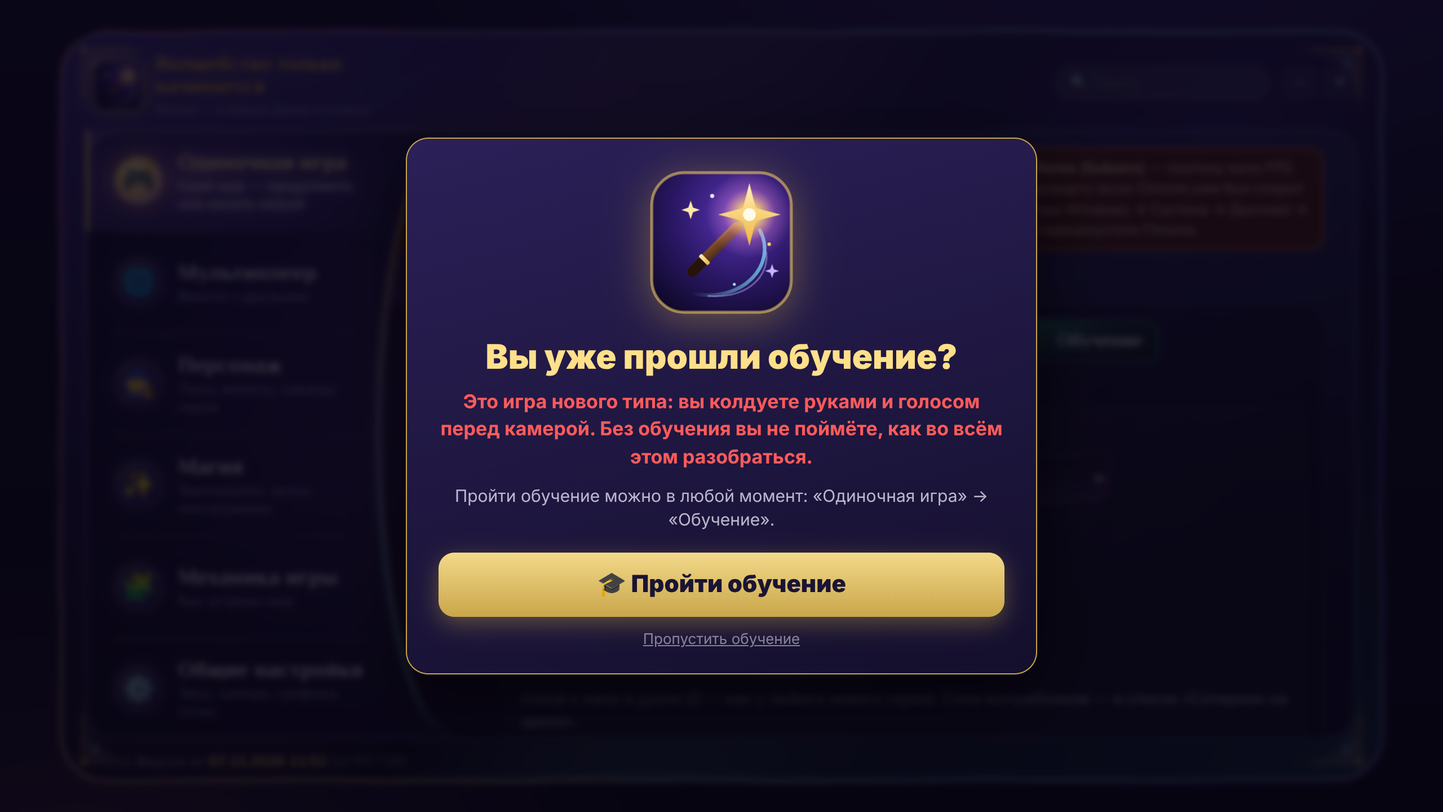
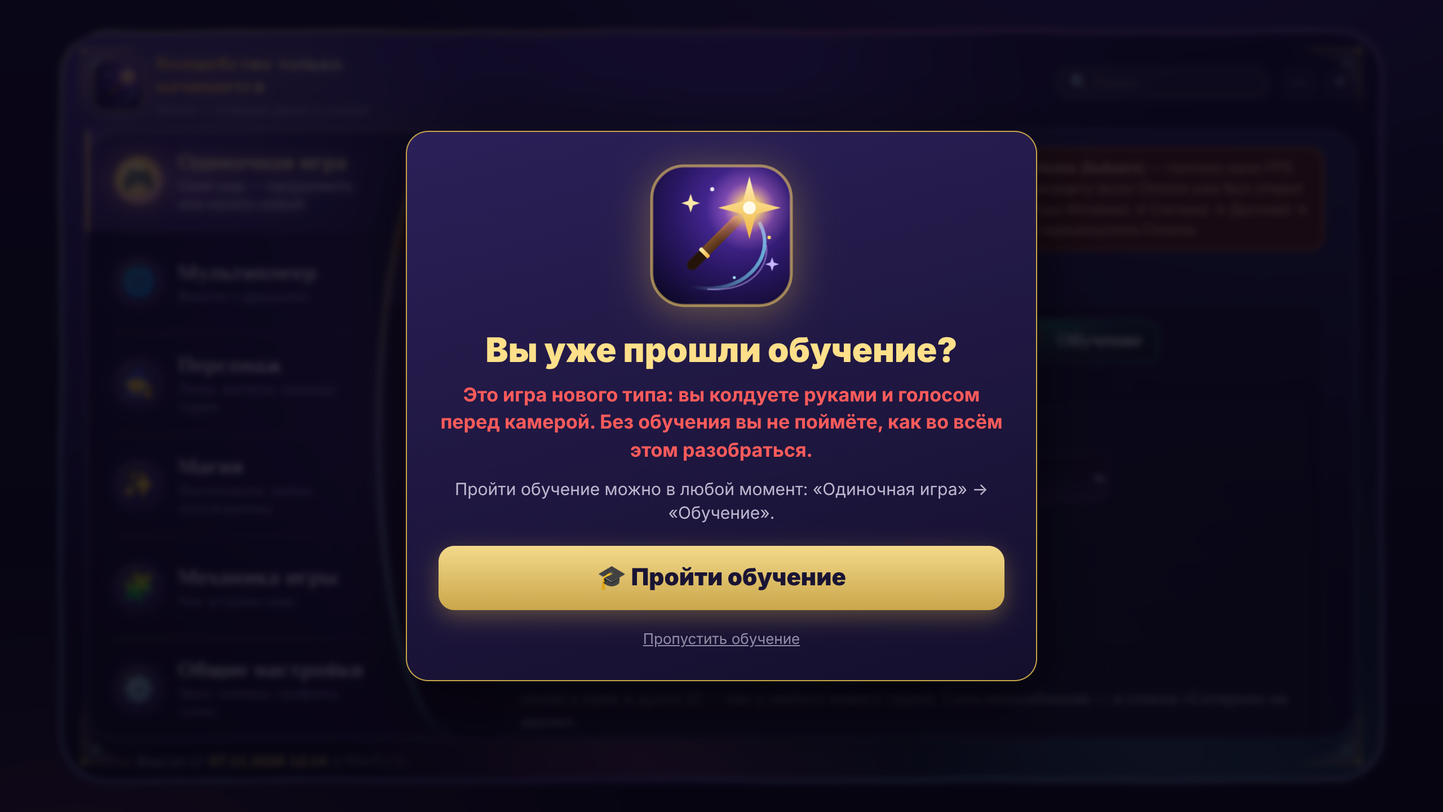
Обучение: фейспалм Дьяволоса и «ва-ва-ваааа» при пропуске, торговец и волшебник оживают, карта скрыта
- «Пропустить обучение»: дьявол закрывает морду ладонью (новый поступок
  facepalm — и в игре на слабое заклинание) и разочарованный звук; окно
  до полноэкранного режима — первый клик больше не теряется.
- На карте обучения нет замков — жители прилавка и волшебник не
  просыпались; теперь просыпаются.
- Миникарта скрыта, кроме шага про интерфейс; стрелка над полосой маны.
- Голос не загрузился — фразы дальше без ожидания.
- Тесты в браузере сами берут свободный порт.

Claude-Session: https://claude.ai/code/session_01GXUr6fdMTNaofVnpKrdDAX

Changed region(s): [[0.2812, 0.1562, 0.7188, 0.7812], [0.2812, 0.8125, 0.7188, 0.8438]]

diff --git a/src/game/Tutorial.js b/src/game/Tutorial.js
@@ -206,6 +206,7 @@ export class Tutorial {
                 { ...say('Главное в игре — ячейки маны. Это вторая цифра: сколько маны у вас всего. Чем больше ячеек, тем сильнее заклинания вам доступны.'), ...wait(10), show: 'mana-max' },
                 { ...say('За каждое новое заклинание, которое вы произнесёте впервые, дают ячейки маны. Поэтому пробуйте все заклинания, которые знаете.'), ...wait(9), show: 'mana-max' },
                 { ...say('Красная полоса — здоровье. Еда возвращает его.'), ...wait(5), show: 'hp-container' },
+                { ...say('Слева внизу — карта местности. Она показывает, где вы и что вокруг. Здесь, в обучении, мы её спрячем, чтобы она не мешала.'), ...wait(6), show: 'minimap-container', map: true },
                 { ...say('Справа вверху — ваши монеты. Их находят в пещерах и сундуках. На них покупают вещи и свитки у торговцев.'), ...wait(8), show: 'coin-counter' },
                 ask('Ещё одно полезное заклинание. Перед вами свиток. Направьте на него палочку и скажите: «Раскрой свои секреты». Вы узнаете, что это за вещь.', () => T.events.includes('Reveal'), { allow: ['Reveal'], setup: () => { if (!T._held('wand')) T._wandToPocket(); T.ctx.scroll = T._give({ kind: 'scroll', uid: newUid(), stat: 'spell', spell: 'Fireworks' }, T._frontOfView(7))?.item?.uid; }, hint: 'Палочка смотрит на свиток. Скажите: «Раскрой свои секреты».' }),
                 { ...say('Так можно узнать, что за вещь перед вами, прежде чем её взять. Остальное о мире можно прочитать в главном меню, во вкладке «Механика игры».'), ...wait(9) },
@@ -371,7 +372,8 @@ export class Tutorial {
         const G = TUTORIAL.G + 0.5, at = { x: -14, z: -10 }; // (beside the hill, ~26 m before the hero)
         const spot = { x: at.x, y: G, z: at.z, yaw: Math.PI };
         return {
-            id: TUT.WIZ_SITE, kind: 'guest', name: 'Обучение', x: at.x, z: at.z, F: G, zone: 12, gx: 0, gz: 0,
+            id: TUT.WIZ_SITE, kind: 'wander', name: 'Обучение', // (a wizards' place that keeps no day and night: the wizard's own fighting mind runs — WizardLife.crowd)
+            x: at.x, z: at.z, F: G, zone: 12, gx: 0, gz: 0,
             knights: 0, king: '', population: 1, color: 0x3a3a7a, spot,
             people: [{ idx: 1, role: 'student', female: false, name: 'Ученик Тим', home: -1, stall: -1, seed: 20261107, rank: 'novice', brave: 1, mana: 60 }],
             houses: [], stalls: [], fields: [], posts: [], beds: [], chests: [], pens: [], graves: [], graveyards: [], rooms: [],
@@ -466,7 +468,9 @@ export class Tutorial {
         this.t = 0; for (const k of ['seen', 'handsT', 'min', 'max', 'body0', 'toldBody', 'runT', 'lightT', 'toldDark']) delete this.ctx[k]; this.heard.length = 0; this.events.length = 0; this.hinted = false; // (the stage's things — the apple, the wand — stay known through its steps)
         this.allowed = new Set(st.allow || []);
         this.frozen = !st.unfreeze;
-        this.point = st.point || null; // (the red arrow in the camera's window: 'wand' / 'pocket' — PocketHintsDraw.pointArrow)
+        this.point = st.point || null;
+        // (the red arrow in the camera's window: 'wand' / 'pocket' — PocketHintsDraw.pointArrow)
+        if (typeof document !== 'undefined') document.body.classList.toggle('tut-map', !!st.map); // (the map is hidden in the tutorial — but for the step that shows it)
         try { st.setup?.(); } catch (e) { console.warn('tutorial setup', e); }
         if (st.say) this._narrate(st.say);
         this._show(st.show || null);
@@ -542,10 +546,13 @@ export class Tutorial {
         const piece = this._q[0], now = this._clockNow(), sp = this._speech();
         const silent = () => { this._q.shift(); this._talking = true; this._subText(piece); this._talkEnd = now + 0.6 + piece.length * 0.065; };
         if (!sp) { silent(); return; }
-        if (sp.neuralUsable && !sp.neural?.ready) { // (the voices still loading: the piece waits — at most VOICE_WAIT, then it is only written)
+        if (sp.neuralUsable && !sp.neural?.ready) { // (the voices still loading: the piece waits — at most VOICE_WAIT once, then the words are only written until they come)
             sp.preload?.();
-            this._waitFrom ??= now;
-            if (now - this._waitFrom < TUT.VOICE_WAIT) { this._waiting = true; return; }
+            if (!this._voiceGaveUp) {
+                this._waitFrom ??= now;
+                if (now - this._waitFrom < TUT.VOICE_WAIT) { this._waiting = true; return; }
+                this._voiceGaveUp = true; // (never again a wait: a voice that did not come in time is not waited for at every line)
+            }
             silent(); return;
         }
         this._waiting = false; this._waitFrom = null;
@@ -619,8 +626,10 @@ export class Tutorial {
 #tut-finish h2{margin:0 0 12px;color:#f3d98a}#tut-finish button{margin-top:8px;padding:10px 20px;border-radius:10px;border:0;background:#c9a64a;color:#1a1434;font-weight:700;font-size:15px;cursor:pointer}
 @media (max-width:900px){#tut-panel{top:70px;width:46vw;font-size:13px}#tut-panel li::before{flex-basis:22px;height:22px;font-size:12px}}
 @media (max-width:640px){#tut-sub{font-size:16px}}
+body.tutorial-on #minimap-container{display:none!important}
+body.tutorial-on.tut-map #minimap-container{display:block!important}
 body.tutorial-on #voice-debug.hint{top:calc(max(118px,14vh) + 120px)!important}
-.tut-arrow{position:fixed;z-index:63;width:34px;height:46px;pointer-events:none;filter:drop-shadow(0 0 6px rgba(255,40,40,.85)) drop-shadow(0 2px 2px #000);animation:tutBob .7s ease-in-out infinite alternate}
+.tut-arrow{position:fixed;z-index:10040;width:34px;height:46px;pointer-events:none;filter:drop-shadow(0 0 6px rgba(255,40,40,.85)) drop-shadow(0 2px 2px #000);animation:tutBob .7s ease-in-out infinite alternate}
 .tut-arrow svg{width:100%;height:100%}.tut-arrow.up{transform:rotate(180deg)}
 @keyframes tutBob{from{translate:0 -6px}to{translate:0 4px}}`;
             document.head.appendChild(s);
@@ -697,7 +706,7 @@ body.tutorial-on #voice-debug.hint{top:calc(max(118px,14vh) + 120px)!important}
         if (typeof document === 'undefined') return;
         for (const id of ['tut-panel', 'tut-sub', 'tut-bosses', 'tut-finish']) document.getElementById(id)?.remove();
         document.querySelectorAll('.tut-arrow').forEach((e) => e.remove());
-        document.body.classList.remove('tutorial-on');
+        document.body.classList.remove('tutorial-on', 'tut-map');
         document.querySelectorAll('.tut-glow').forEach((e) => e.classList.remove('tut-glow'));
         this._clearZombies?.();
     }

diff --git a/src/main.js b/src/main.js
@@ -1250,6 +1250,40 @@ function startTutorial(cont = true) {
     startGame({ ...readConfig(), mode: 'freeworld', tutorial: true, tutorialFrom: from, map: null, worldName: 'Обучение' }); // (a small bounded map, never saved — Tutorial.js)
 }
 
+/** «Ва-ва-ва-ваааа»: a sad trombone — four falling notes, the last one long and wobbling (synthesised: a buzzing reed through a closing «wah»). */
+function sadTrombone() {
+    try {
+        const AC = window.AudioContext || window.webkitAudioContext;
+        const ctx = sadTrombone.ctx || (sadTrombone.ctx = new AC());
+        ctx.resume?.();
+        const out = ctx.createGain(); out.gain.value = 0.32; out.connect(ctx.destination);
+        const notes = [[293.7, 0.42], [277.2, 0.42], [261.6, 0.42], [246.9, 1.5]]; // (D4 → C#4 → C4 → B3, the last held)
+        let t = ctx.currentTime + 0.05;
+        notes.forEach(([f, d], i) => {
+            const last = i === notes.length - 1;
+            const o = ctx.createOscillator(), o2 = ctx.createOscillator(), lp = ctx.createBiquadFilter(), g = ctx.createGain();
+            o.type = 'sawtooth'; o2.type = 'square'; o.frequency.value = f; o2.frequency.value = f * 0.5;
+            const g2 = ctx.createGain(); g2.gain.value = 0.25; o2.connect(g2); g2.connect(lp);
+            o.connect(lp); lp.connect(g); g.connect(out);
+            lp.type = 'lowpass'; lp.Q.value = 6;
+            // the «wah»: the mute opens and closes on each note
+            lp.frequency.setValueAtTime(350, t); lp.frequency.linearRampToValueAtTime(1500, t + 0.12); lp.frequency.linearRampToValueAtTime(500, t + d * 0.9);
+            g.gain.setValueAtTime(0, t); g.gain.linearRampToValueAtTime(0.9, t + 0.05); g.gain.setValueAtTime(0.9, t + d * 0.7); g.gain.linearRampToValueAtTime(0, t + d);
+            o.frequency.setValueAtTime(f * 1.03, t); o.frequency.linearRampToValueAtTime(f, t + 0.08); // (a little scoop up into it)
+            if (last) { // (the long one wobbles and sags)
+                const lfo = ctx.createOscillator(), lg = ctx.createGain();
+                lfo.frequency.setValueAtTime(5, t); lfo.frequency.linearRampToValueAtTime(7, t + d);
+                lg.gain.setValueAtTime(0, t); lg.gain.linearRampToValueAtTime(f * 0.035, t + 0.4);
+                lfo.connect(lg); lg.connect(o.frequency);
+                o.frequency.linearRampToValueAtTime(f * 0.94, t + d);
+                lfo.start(t); lfo.stop(t + d + 0.05);
+            }
+            o.start(t); o2.start(t); o.stop(t + d + 0.05); o2.stop(t + d + 0.05);
+            t += d + 0.04;
+        });
+    } catch { /* no sound: the devil is enough */ }
+}
+
 /**
  * The first time ever a game is started or a server joined (the author 07.11): a window asks «Вы уже прошли обучение?» —
  * a big «Пройти обучение», a red warning, and a small «Пропустить обучение» under it. Shown ONCE (never again, whatever is chosen).
@@ -1273,7 +1307,10 @@ function tutorialGate() {
 #tut-ask .note{margin:0 0 18px;color:rgba(243,236,255,.75);font-size:15px}
 #tut-ask .go{display:block;width:100%;padding:16px 18px;border:0;border-radius:14px;background:linear-gradient(180deg,#f3d98a,#c9a64a);color:#1a1434;font:900 21px system-ui,sans-serif;cursor:pointer;box-shadow:0 6px 20px rgba(201,166,74,.4)}
 #tut-ask .go:hover{filter:brightness(1.08)}
-#tut-ask .skip{margin-top:12px;background:none;border:0;color:rgba(243,236,255,.5);font-size:13px;text-decoration:underline;cursor:pointer}`;
+#tut-ask img.devil{width:240px;height:240px;border-radius:16px;object-fit:cover;border:1px solid rgba(201,166,74,.5);box-shadow:0 8px 30px rgba(255,60,20,.35);filter:none}
+#tut-ask h2.sad{color:#ff9a7a}
+#tut-ask{transition:opacity .35s}#tut-ask.out{opacity:0}
+#tut-ask .skip{margin-top:8px;padding:10px 18px;background:none;border:0;color:rgba(243,236,255,.55);font-size:13px;text-decoration:underline;cursor:pointer}`;
             document.head.appendChild(st);
         }
         const w = document.createElement('div');
@@ -1286,16 +1323,34 @@ function tutorialGate() {
 <button type="button" class="skip">Пропустить обучение</button></div>`;
         document.body.appendChild(w);
         w.querySelector('.go').onclick = () => { w.remove(); resolve(false); startTutorial(true); };
-        w.querySelector('.skip').onclick = () => { try { localStorage.setItem('zns-tutorial-skipped', '1'); } catch { /* private mode */ } w.remove(); resolve(true); }; // (skipped: TutorialNudge watches the first minutes)
+        // (the devil's facepalm frames, loaded while the window is read: tools/devil-facepalm.mjs → assets/ui/)
+        const frames = Array.from({ length: 8 }, (_, i) => Object.assign(new Image(), { src: `assets/ui/devil-facepalm-${i}.webp` }));
+        let skipping = false;
+        w.querySelector('.skip').onclick = () => {
+            if (skipping) return;
+            skipping = true;
+            try { localStorage.setItem('zns-tutorial-skipped', '1'); } catch { /* private mode */ } // (skipped: TutorialNudge watches the first minutes)
+            // the author 07.11: «звук полного разочарования» and Diabolos doing a facepalm — a joke, then the game goes on
+            const box = w.querySelector('.box');
+            box.innerHTML = '<img class="devil" alt=""><h2 class="sad">Ну что ж…</h2><p class="note">Обучение ждёт вас в «Одиночной игре».</p>';
+            const img = box.querySelector('.devil');
+            let f = 0;
+            img.src = frames[0].src;
+            const tick = setInterval(() => { f = Math.min(frames.length - 1, f + 1); img.src = frames[f].src; if (f === frames.length - 1) clearInterval(tick); }, 110);
+            sadTrombone();
+            setTimeout(() => { clearInterval(tick); w.classList.add('out'); setTimeout(() => { w.remove(); resolve(true); }, 350); }, 3300);
+        };
     });
 }
 
 async function startGame(config, welcome = null) {
+    if (starting) return; // a second click / duplicate invitation while loading
+    // (the first game ever: «Вы уже прошли обучение?» — before the full screen: going full screen under the window moved it, and the
+    // first click on «Пропустить» was lost — the author)
+    if (!config.tutorial && !welcome && !(await tutorialGate())) return;
     // the menu is a window; the game itself is played full screen
     if (!window.__ZNS_NO_FULLSCREEN__) enterGameFullscreen();
     window.__charEditor?.hide(); // (its preview must not keep drawing under the game)
-    if (starting) return; // a second click / duplicate invitation while loading
-    if (!config.tutorial && !welcome && !(await tutorialGate())) return; // (the first game ever: «Вы уже прошли обучение?»)
     starting = true;
     try {
         await startGameInner(config, welcome);

diff --git a/src/game/CastleLife.js b/src/game/CastleLife.js
@@ -300,6 +300,9 @@ export class Graph {
 }
 
 // --------------------------------------------------------------- the system
+/** No places of the land (a map of its own — «Обучение»): CastleLife still runs the game's own ones (`extra`). */
+const NO_SITES = { near: () => [], landAt: () => null, byId: () => null, cellOf: () => null };
+
 export class CastleLife {
     constructor(game) {
         this.game = game;
@@ -348,7 +351,7 @@ export class CastleLife {
     }
 
     get auth() { return this.game.authority; }
-    get index() { const d = this.game.world?.terrain?.data; return d?.sites || d?.castles || null; } // (castles and wizards' towers)
+    get index() { const d = this.game.world?.terrain?.data; return d?.sites || d?.castles || (this.game.config?.tutorial ? NO_SITES : null); } // (castles and wizards' towers; «Обучение» has none — only the game's own places, `extra`: the stall, the wizard)
 
     /** Who is person number `idx` of a site (a castle's villager or a wizard). */
     _rosterRaw(def, idx) { const own = def.people?.find((p) => p.idx === idx); if (own) return own; return def.kind === 'hamlet' ? hamletRoster(def, idx) : isWizSite(def) ? wizardRoster(def, idx) : rosterEntry(def, idx); }
@@ -532,8 +535,8 @@ export class CastleLife {
 
     // ------------------------------------------------------- wake / sleep
     _scan() {
-        const idx = this.index;
-        if (!idx) return;
+        const idx = this.index; // (none on a map of its own — «Обучение»: only the game's own places, `extra`, wake there)
+        if (!idx && !this.extra.size) return;
         const players = this._players();
         this.game.imperius?.eyes?.(players); // («Империус»: the places round a creature with a mind in it wake and stay awake — up to 1800 m from the body)
         const seen = new Set();
@@ -551,7 +554,7 @@ export class CastleLife {
                 seen.add(def.id);
                 wake(this._runtime(def));
             }
-            for (const def of idx.near(pl.p.x, pl.p.z, WAKE)) {
+            for (const def of idx ? idx.near(pl.p.x, pl.p.z, WAKE) : []) {
                 seen.add(def.id);
                 wake(this._runtime(def));
             }

diff --git a/src/game/DiabolosActs.js b/src/game/DiabolosActs.js
@@ -199,10 +199,21 @@ export const ACTS = {
         body: (k) => ({ lean: env(k, 0.3, 0.7), head: { pitch: -0.45 * env(k, 0.3, 0.7) } }),
         snd: [{ t: 0.35, k: 'sniff' }, { t: 0.55, k: 'sniff' }, { t: 0.75, k: 'chuckle' }],
     },
+    facepalm: {
+        ru: 'закрывает морду ладонью: «ну что за жалкое зрелище»', dur: 3.6, when: ['hitWeak'], w: 1,
+        // (автор 07.11: его фейспалм — и в окне «Пропустить обучение»; в игре — на совсем слабое заклинание)
+        face: (k, t) => ({ lid: 0.08 + 0.5 * (1 - env(k, 0.25, 0.8)), brow: 0.6 * env(k), browL: 0.75 * env(k), ear: -0.8 * env(k), nostril: 0.4 + 0.5 * env(k, 0.5, 0.7), snarl: 0.15 }),
+        body: (k, t) => {
+            const up = env(k, 0.28, 0.82);
+            return { head: { pitch: -0.36 * up, yaw: 0.26 * up + 0.08 * Math.sin(t * 2.6) * env(k, 0.4, 0.8), roll: 0.14 * up }, // (the head shakes a little into the palm) inhale: 0.5 * env(k, 0.5, 0.65), lean: 0.15 * up,
+                armR: { rot: { sx: 1.48 * up, ab: -0.29 * up, tw: 0.68 * up, el: 1.6 * up, ha: 0.68 * up } } }; // (the palm on the brow — measured on the model: more and it goes past the head)
+        },
+        snd: [{ t: 0.45, k: 'sigh' }], fx: [{ t: 0.6, k: 'nostrilSmoke' }],
+    },
 };
 /** Порядок для сети (только дописывать в конец). */
 export const ACT_IDS = ['snoreDeep', 'earFlick', 'sleepScratch', 'sleepMumble', 'wakeOneEye', 'yawn', 'stretch', 'sniffAir', 'lookAround', 'pickTeeth', 'scratchHorn',
-    'smokePuff', 'knuckleCrack', 'laugh', 'scoff', 'bask', 'headShake', 'tongueTaunt', 'lickLips', 'beckon', 'chainPull', 'chestBeat', 'triumph', 'surprise', 'sighSit', 'sniffClose'];
+    'smokePuff', 'knuckleCrack', 'laugh', 'scoff', 'bask', 'headShake', 'tongueTaunt', 'lickLips', 'beckon', 'chainPull', 'chestBeat', 'triumph', 'surprise', 'sighSit', 'sniffClose', 'facepalm'];
 
 /** Звуки поступков (DiabolosSounds: эти виды должны быть синтезированы). */
 export const ACT_SOUNDS = [...new Set(Object.values(ACTS).flatMap((a) => (a.snd || []).map((s) => s.k)))];

diff --git a/docs/rules/tutorial.md b/docs/rules/tutorial.md
@@ -43,3 +43,7 @@
 - Первый запуск (автор 07.11): при первой игре или первом входе/создании сервера — окно «Вы уже прошли обучение?» (`main.js tutorialGate`): жирный вопрос, красное предупреждение, «можно пройти в любой момент», большая кнопка «Пройти обучение», маленькая «Пропустить обучение». Показывается ОДИН раз (`zns-tutorial-asked`), в тестах выключено (`__ZNS_NO_TUTORIAL_ASK__`, `navigator.webdriver`). Снимок: `docs/media/tutorial-ask.png`.
 - Напоминание (автор 07.11, `TutorialNudge.js`): только тем, кто нажал «Пропустить обучение». Первые 5 минут игры смотрит, не получается ли (камера почти не видит; ≥ 4 фраз без единого заклинания; 2 мин палочка ни разу в руке; 3 мин почти не сдвинулся) — тогда тихая строка «… Обучение всегда можно пройти»; через 5 минут игры после неё — яркая золотая плашка со своим звуком (колокольчики) и другими словами; потом больше никогда (`zns-tutorial-nudge`, переживает перезапуск). Всё хорошо за 5 минут — не трогаем вовсе. Тест `tutorial-nudge.test.js`.
 - Диктор (автор 07.11: «текст спешит, первая фраза не прозвучала»): своя очередь фраз (`Tutorial._narrate/_pump`): кусок ждёт загрузки голосов (до `VOICE_WAIT` 25 с), текст появляется в момент начала озвучки куска (`onStart`), следующий кусок — после конца предыдущего (`onEnd`); новый шаг сбрасывает недосказанное старого, подсказки добавляются в конец; время шага (паузы, подсказки) идёт только после того, как диктор договорил. Без голоса — текст держится время чтения.
+- «Пропустить обучение» (автор 07.11): Дьяволос делает фейспалм (кадры `assets/ui/devil-facepalm-0…7.webp`, снимает `node tools/devil-facepalm.mjs` по настоящему поступку `facepalm` из `DiabolosActs.js` — он же в игре на слабое заклинание) и звучит «ва-ва-ва-ваааа» (`main.js sadTrombone`, синтез); ~3 с — и игра идёт дальше. Окно — до полноэкранного режима (иначе первый клик по «Пропустить» терялся).
+- Миникарта в обучении скрыта (`body.tutorial-on`), показывается только на шаге интерфейса со стрелкой («мы её спрячем, чтобы не мешала»).
+- Места жителей на карте без замков: `CastleLife.index` в обучении — пустой (`NO_SITES`), «свои» места (`extra`: прилавок, волшебник) просыпаются и живут. Волшебник — место вида `wander` (его боевой ум — `WizardLife.crowd`). Проверка в игре: `node tools/shot.mjs tutorial-live --mode tutorial`.
+- Голос не загрузился за 25 с — дальше фразы только текстом, без ожидания на каждой.
